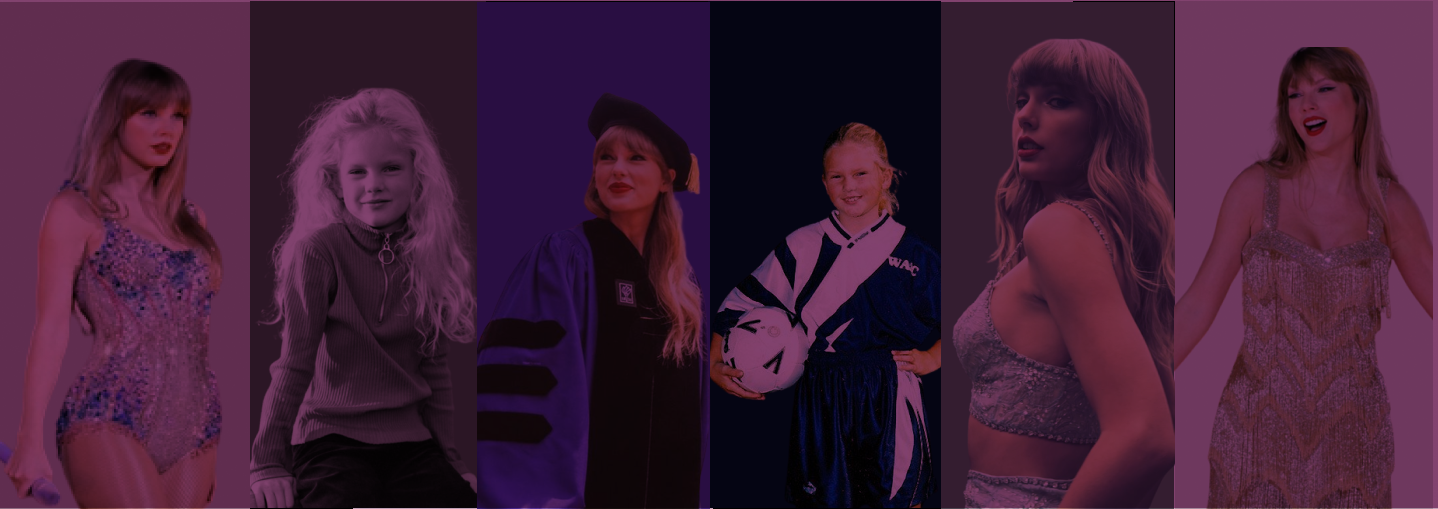
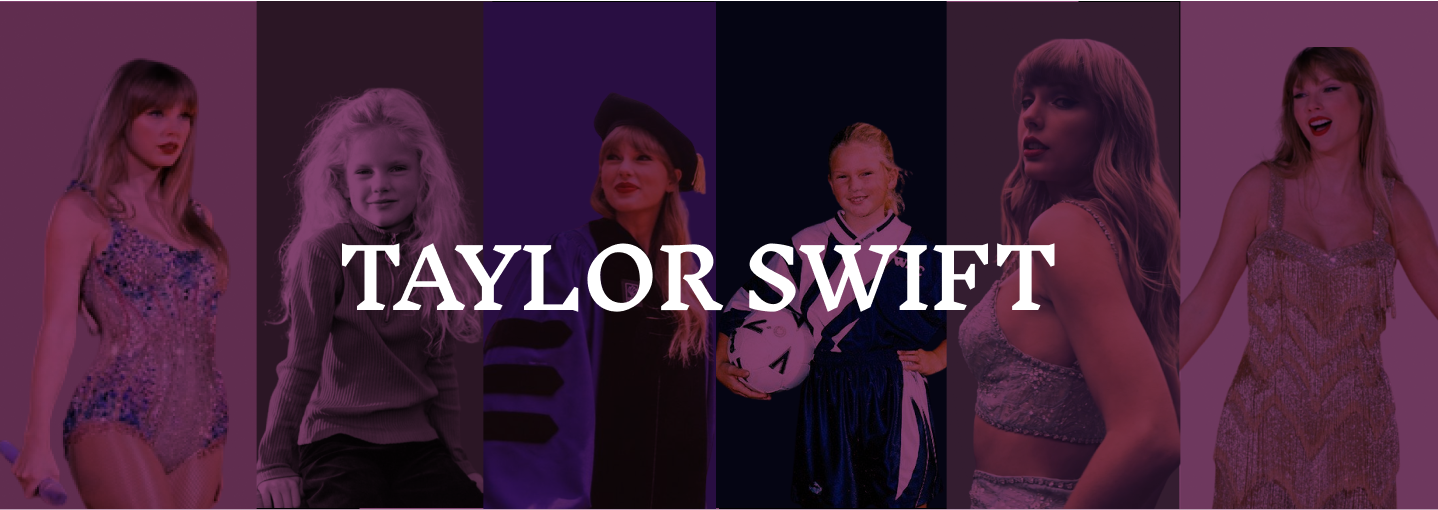
Fixed Landing Page
pls no use css

diff --git a/WebsiteTaylorswift/index/index.html b/WebsiteTaylorswift/index/index.html
@@ -1,60 +1,87 @@
 <!DOCTYPE html>
 <html lang="en">
+
 <head>
-    <meta charset="UTF-8">
-    <meta name="viewport" content="width=device-width, initial-scale=1.0">
-    <link href="https://cdn.jsdelivr.net/npm/bootstrap@5.3.2/dist/css/bootstrap.min.css" rel="stylesheet"
+  <meta charset="UTF-8">
+  <meta name="viewport" content="width=device-width, initial-scale=1.0">
+  <link href="https://cdn.jsdelivr.net/npm/bootstrap@5.3.2/dist/css/bootstrap.min.css" rel="stylesheet"
     integrity="sha384-T3c6CoIi6uLrA9TneNEoa7RxnatzjcDSCmG1MXxSR1GAsXEV/Dwwykc2MPK8M2HN" crossorigin="anonymous">
   <script src="https://cdn.jsdelivr.net/npm/bootstrap@5.3.2/dist/js/bootstrap.bundle.min.js"
     integrity="sha384-C6RzsynM9kWDrMNeT87bh95OGNyZPhcTNXj1NW7RuBCsyN/o0jlpcV8Qyq46cDfL"
     crossorigin="anonymous"></script>
-    <link rel="preconnect" href="https://fonts.googleapis.com">
-    <link rel="preconnect" href="https://fonts.gstatic.com" crossorigin>
-    <link href="https://fonts.googleapis.com/css2?family=Inknut+Antiqua:wght@300&display=swap" rel="stylesheet">
+  <link rel="preconnect" href="https://fonts.googleapis.com">
+  <link rel="preconnect" href="https://fonts.gstatic.com" crossorigin>
+  <link href="https://fonts.googleapis.com/css2?family=Inknut+Antiqua:wght@300&display=swap" rel="stylesheet">
   <link rel="stylesheet" href="style.css">
-    <title>Document</title>
+  <title>Document</title>
 
 </head>
-<body style="background-color: rgb(194, 132, 194); font-family: 'Inknut Antiqua', serif;">
-    <nav class="navbar navbar-expand-lg bg-body-tertiary">
-        <div class="container-fluid">
-          <button class="navbar-toggler" type="button" data-bs-toggle="collapse" data-bs-target="#navbarSupportedContent" aria-controls="navbarSupportedContent" aria-expanded="false" aria-label="Toggle navigation">
-            <span class="navbar-toggler-icon"></span>
-          </button>
-          <div class="collapse navbar-collapse" id="navbarSupportedContent">
-            <ul class="navbar-nav me-auto mb-2 mb-lg-0">
-              <li class="nav-item">
-                <a class="nav-link active" aria-current="page" href="#">Home</a>
-                </li>
-                  <li class="nav-item">
-                    <a class="nav-link" href="#">About</a>
-                  </li>
-                  <li class="nav-item">
-                  <a class="nav-link" href="#">Album</a>
-                  </li>
-                  <li class="nav-item">
-                  <a class="nav-link" href="#">Merch</a>
-              </li>
-            </ul>
-            <div>
-            <form class="d-flex" role="search">
-              <input class="form-control me-2" type="search" placeholder="Search" aria-label="Search">
-              <button class="btn btn-outline-success" type="submit">Search</button>
-            </form>
-          </div>
-        </div>
-      </nav>
 
-      <section class="home">
+<body style="background-color: rgb(194, 132, 194); font-family: 'Inknut Antiqua', serif;">
+  <nav class="navbar navbar-expand-lg bg-body-tertiary">
+    <div class="container-fluid">
+      <button class="navbar-toggler" type="button" data-bs-toggle="collapse" data-bs-target="#navbarSupportedContent"
+        aria-controls="navbarSupportedContent" aria-expanded="false" aria-label="Toggle navigation">
+        <span class="navbar-toggler-icon"></span>
+      </button>
+      <div class="collapse navbar-collapse" id="navbarSupportedContent">
+        <ul class="navbar-nav me-auto mb-2 mb-lg-0">
+          <li class="nav-item">
+            <a class="nav-link active" aria-current="page" href="#">Home</a>
+          </li>
+          <li class="nav-item">
+            <a class="nav-link" href="#">About</a>
+          </li>
+          <li class="nav-item">
+            <a class="nav-link" href="#">Album</a>
+          </li>
+          <li class="nav-item">
+            <a class="nav-link" href="#">Merch</a>
+          </li>
+        </ul>
         <div>
-          <img class="responsive" src="/WebsiteTaylorswift/index/pics/HOMEE.png" alt="">
-          <p class="TS">TAYLOR SWIFT</p>
+          <form class="d-flex" role="search">
+            <input class="form-control me-2" type="search" placeholder="Search" aria-label="Search">
+            <button class="btn btn-outline-success" type="submit">Search</button>
+          </form>
         </div>
-      </section>
-      <section class="info">
-        <img class="won" src="/WebsiteTaylorswift/index/pics/Won (1).png" alt="">
+      </div>
+  </nav>
+  <div class="container=fluid">
+    <div class="row home">
+      <img class="responsive" src="../index/pics/HOMEE.png" alt="" />
+    </div>
+  </div>
+  </section>
+  <div class="container">
+    <div class="row d-flex align-items-center">
+      <div class="col-lg-4 col-sm-12">
         <p class="awards">Won <br> 324 Awards</p>
-        <a href="merch.html"><button class="button">more info</button></a> 
-      </section>
+      </div>
+      <div class="col-lg-4 col-sm-12"><img src="../index/taylorpng.png" /></div>
+      <div class="col-lg-4 col-sm-12">
+        <div class="d-flex flex-column align-items-center">
+          <p class="awards">103.7992 <br />Million Fans</p>
+          <a href="merch.html"><button class="button">more info</button></a>
+        </div>
+      </div>
+    </div>
+    <img class="won" src="/WebsiteTaylorswift/index/pics/Won (1).png" alt="">
+  </div>
+  <div class="container-fluid">
+    <div class="col-lg-12 col-sm-12">
+      <div class="d-flex justify-content-center">
+        <img class="img-fluid" src="../index/pics/Eras Tour desktop wallpaper 1.png" />
+      </div>
+    </div>
+  </div>
+  <div class="container-fluid">
+    <div class="col-lg-12 col-sm-12">
+      <div class="d-flex justify-content-center">
+        <img src="../index/pics/Bookshelf.png" alt="">
+      </div>
+    </div>
+  </div>
 </body>
+
 </html>

diff --git a/WebsiteTaylorswift/index/style.css b/WebsiteTaylorswift/index/style.css
@@ -1,49 +1,16 @@
-.nav-item{
-  color: black;
+body {
+  overflow-x: hidden;
 }
 
-.responsive {
-  width: 100%;
-  height: auto;
-  position: absolute;
-}
-
-nav{
-  position: fixed;
-}
-
-.TS {
-  font-size: 4vw;
-  text-align: center;
-  color: white;
-  position: absolute;
-  margin-left: 35%;
-  margin-top: 20%;
-}
-
-.won {
-  width: 100%;
-  height: auto;
-  position: absolute; 
-  margin-top: 35%; 
-}
 
 .awards {
   font-size: 3vw;
   text-align: center;
   color: white;
-  position: absolute;
-  margin-left: 5%;
-  margin-top: 45%;
 }
 
-.button{
-  position: absolute; 
-  margin-top: 55%;
-  margin-left: 9%; 
-  border-radius: 10px; 
-  color: brown;
-  width: 150px;
-  height: 40px;
-
+.button {
+  border-radius: 15px;
+  padding: 0px 30px 0px 30px;
+  border: 0;
 }
